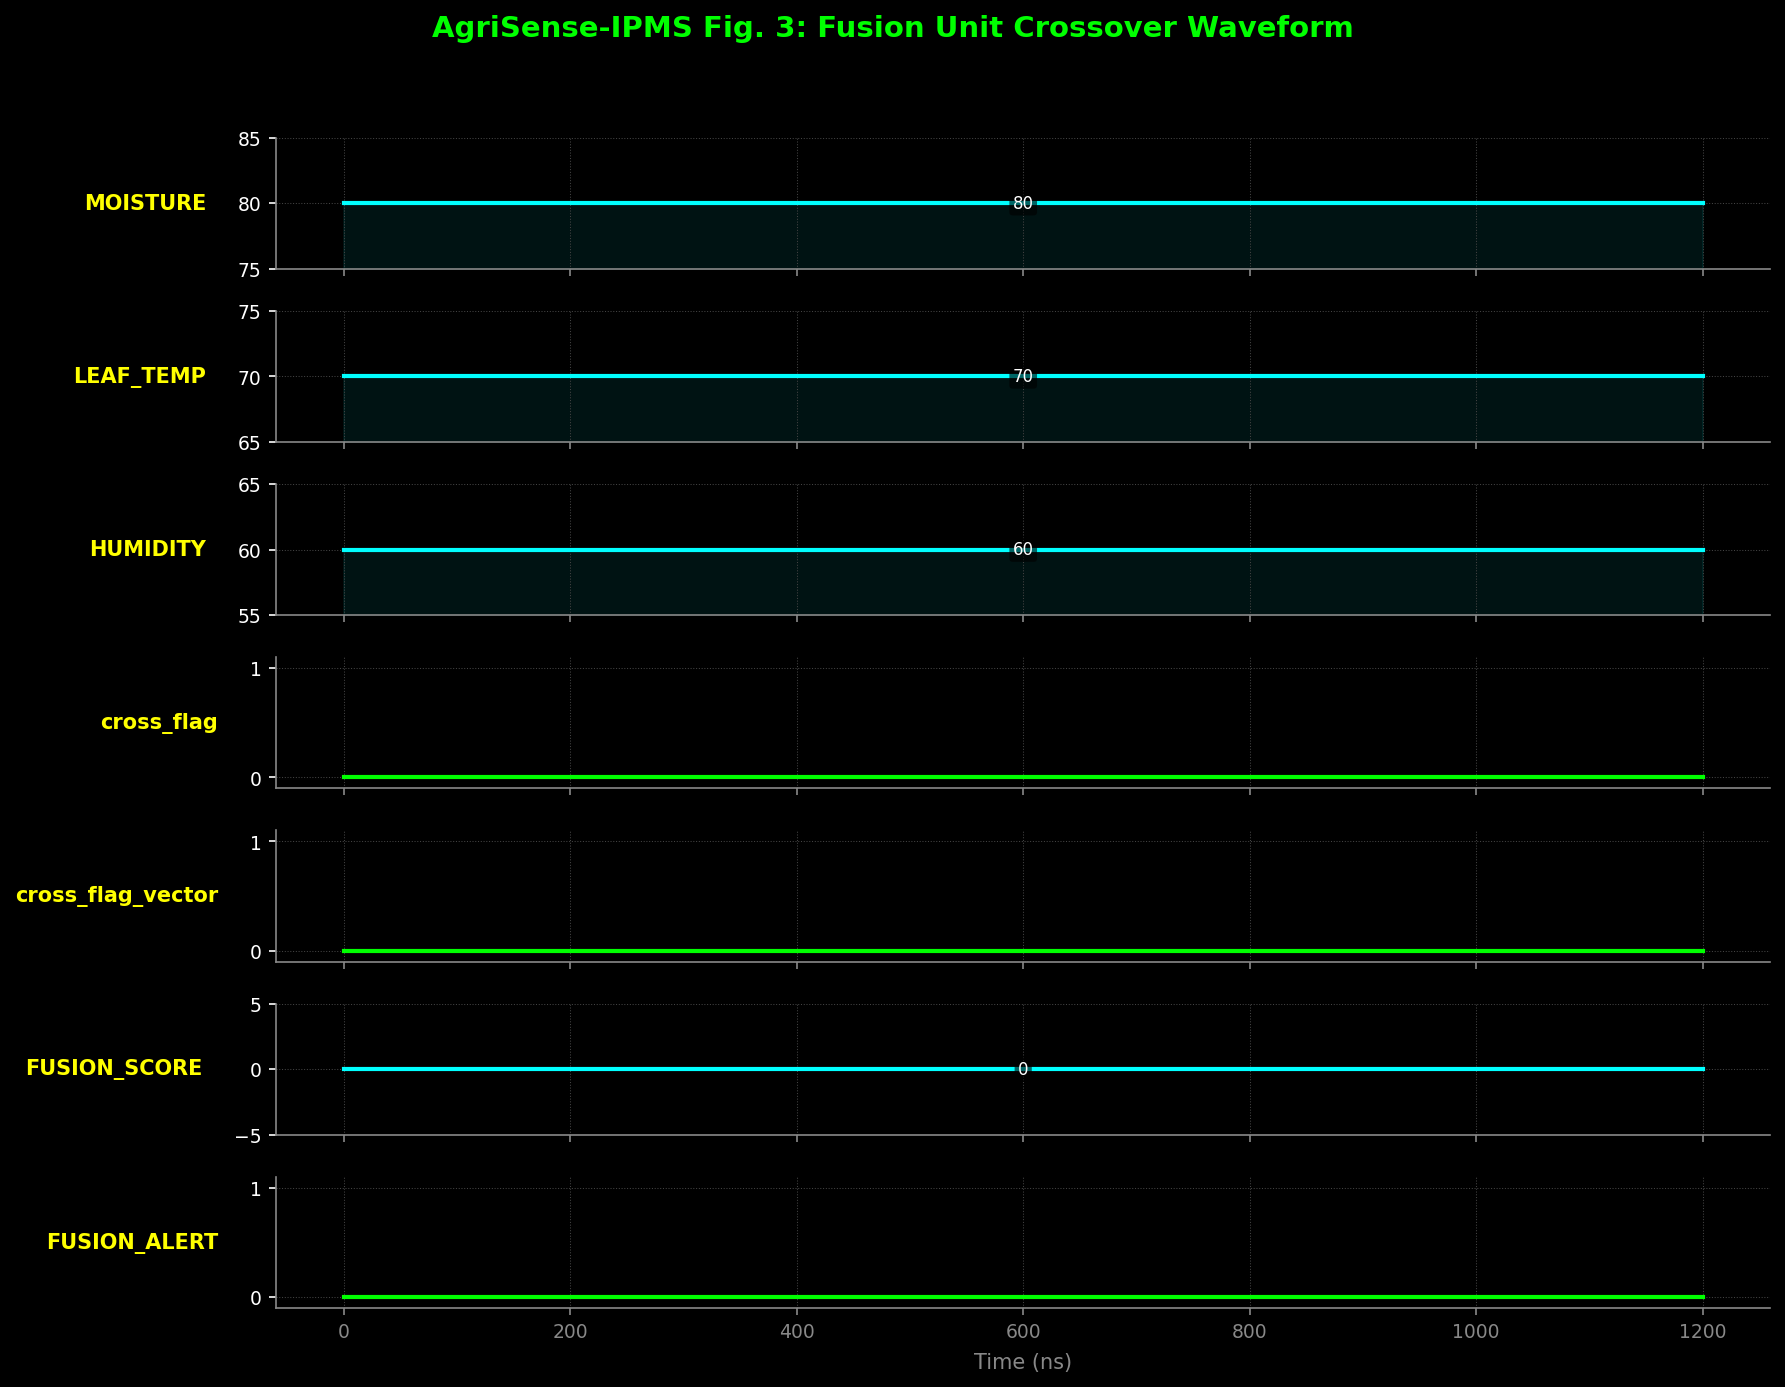
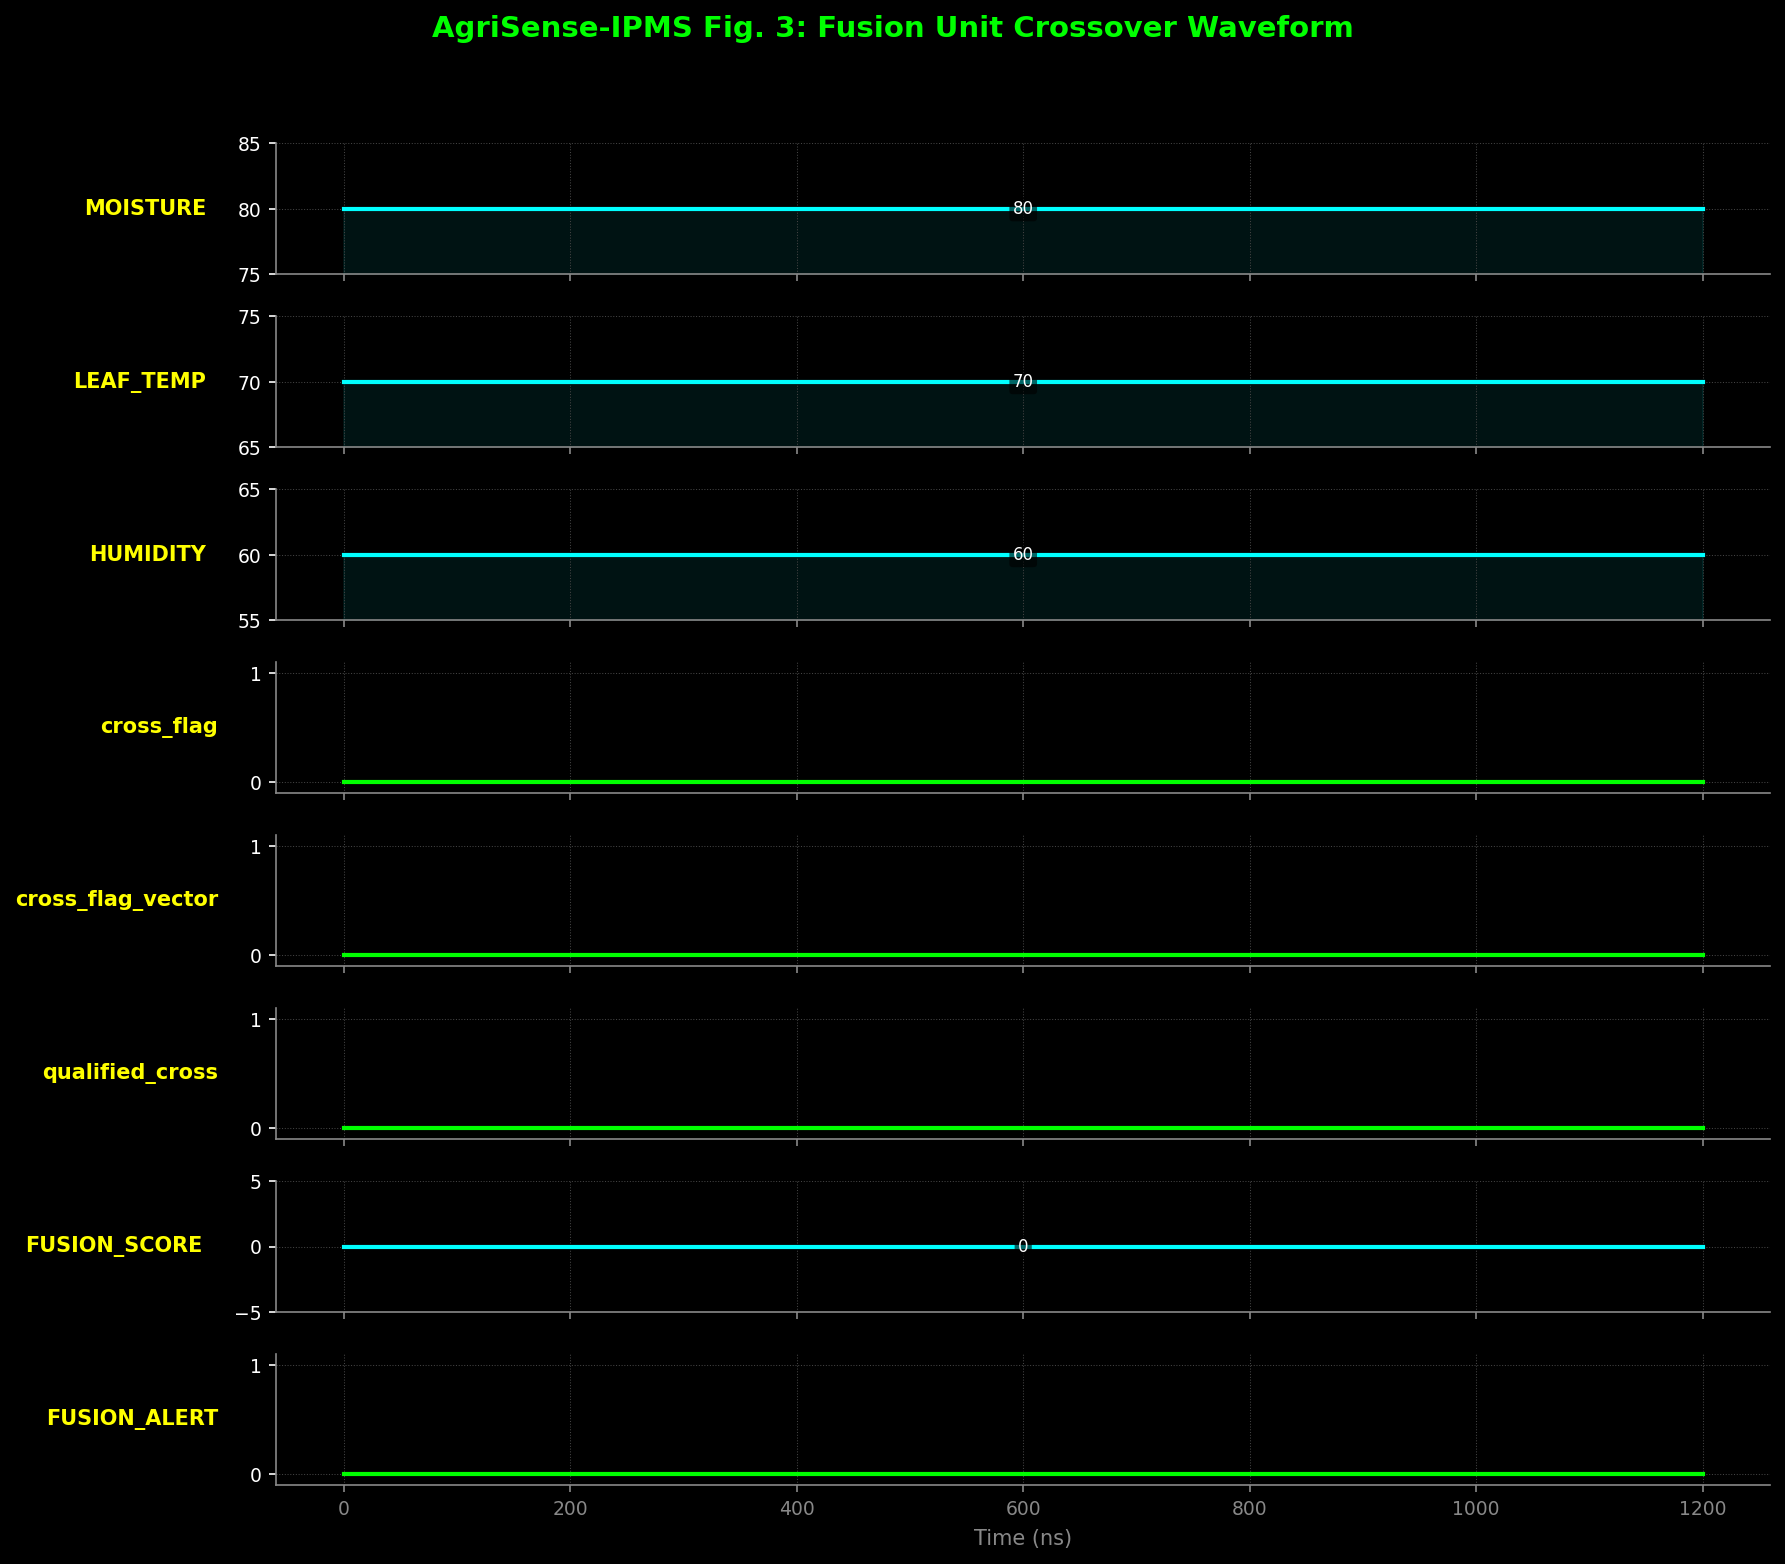
sim: optimize testbench sample spacing to align crossover events and trigger fusion alert

diff --git a/read_simulation_debug.py b/read_simulation_debug.py
@@ -1,0 +1,65 @@
+import sys
+import os
+
+if not os.path.exists("fusion_waveform.vcd"):
+    print("VCD file not found")
+    sys.exit(1)
+
+with open("fusion_waveform.vcd", "r") as f:
+    lines = f.readlines()
+
+symbols = {}
+data = {}
+
+for line in lines:
+    line = line.strip()
+    if not line:
+        continue
+    if line.startswith("$var"):
+        parts = line.split()
+        if len(parts) >= 5:
+            sym = parts[3]
+            name = parts[4]
+            name = name.split('[')[0]
+            # store full path to distinguish signals
+            full_path = " ".join(parts[4:-1])
+            if not full_path:
+                full_path = parts[4]
+            symbols[sym] = full_path
+            data[full_path] = []
+
+current_time = 0
+for line in lines:
+    line = line.strip()
+    if not line:
+        continue
+    if line.startswith("#"):
+        try:
+            current_time = int(line[1:])
+        except ValueError:
+            pass
+    elif line.startswith("b"):
+        parts = line.split()
+        if len(parts) == 2:
+            val_str = parts[0][1:]
+            sym = parts[1]
+            if sym in symbols:
+                try:
+                    val = int(val_str, 2)
+                except ValueError:
+                    val = 0
+                data[symbols[sym]].append((current_time, val))
+    elif len(line) >= 2 and line[0] in ('0', '1', 'x', 'z', 'X', 'Z'):
+        val_char = line[0]
+        sym = line[1:]
+        if sym in symbols:
+            val = 1 if val_char == '1' else 0
+            data[symbols[sym]].append((current_time, val))
+
+# Let's print out the changes of the key signals
+print("=== VCD DEBUG PRINT ===")
+for name in sorted(data.keys()):
+    if any(k in name for k in ['moisture', 'leaf_temp', 'cross_flag', 'recent_cross', 'fusion_score', 'stress_event', 'window_ctr']):
+        print(f"Signal: {name}")
+        for t, v in data[name][:20]: # print first 20 changes
+            print(f"  Time {t} ps: {v}")